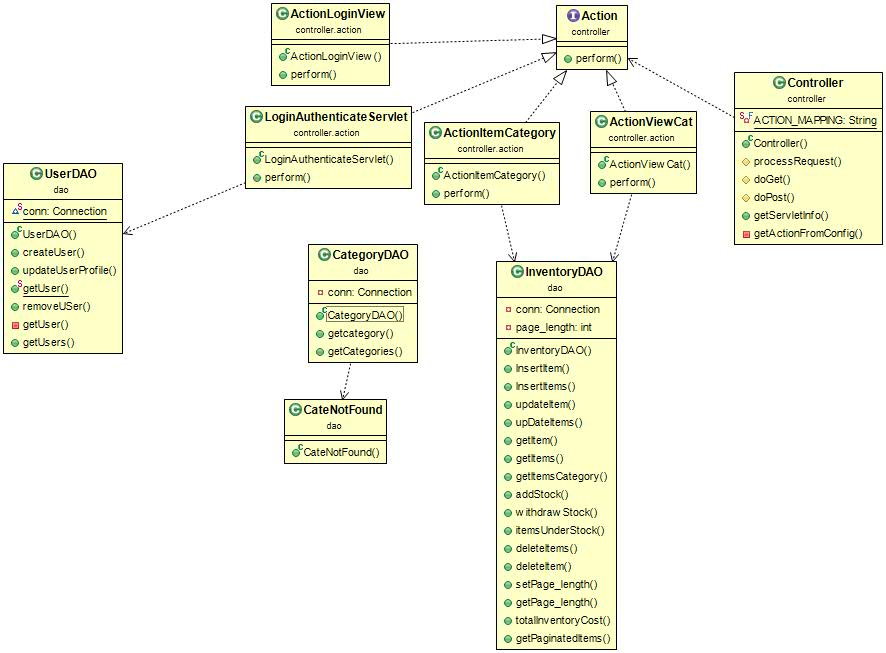
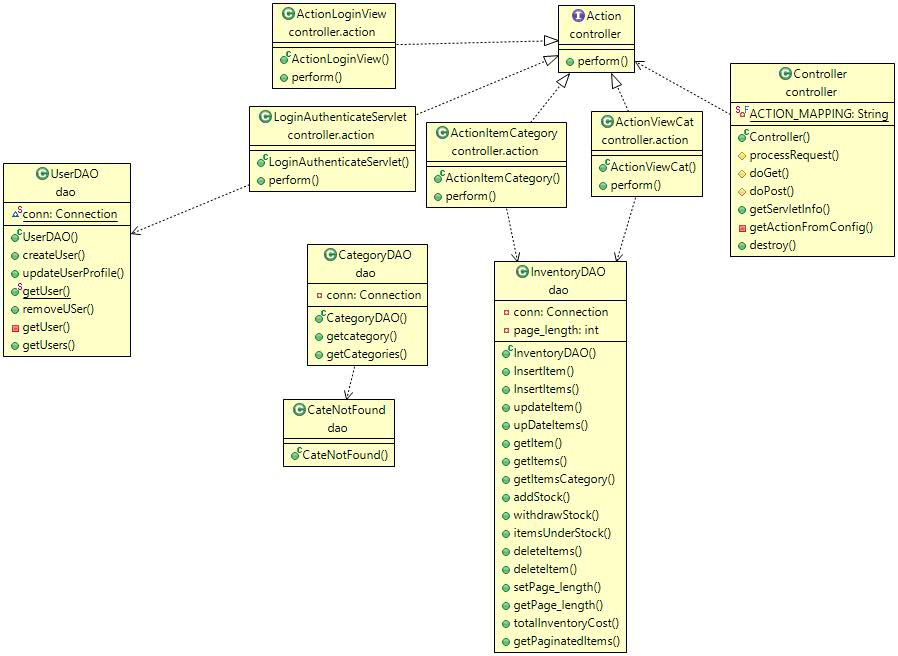
a

diff --git a/src/controller/Controller.java b/src/controller/Controller.java
@@ -14,77 +14,79 @@ import javax.servlet.http.HttpSession;
 
 public class Controller extends HttpServlet {
 
-    protected void processRequest(HttpServletRequest request, HttpServletResponse response)
-            throws ServletException, IOException {
+	protected void processRequest(HttpServletRequest request, HttpServletResponse response)
+			throws ServletException, IOException {
 
-        
-        String theAction = request.getParameter("action");
-        //PrintWriter out = response.getWriter();
-        //out.println( this.getServletContext().getRealPath(".") );
-        
-        HttpSession session=request.getSession();
+
+		String theAction = request.getParameter("action");
+		//PrintWriter out = response.getWriter();
+		//out.println( this.getServletContext().getRealPath(".") );
+
+		HttpSession session=request.getSession();
 		String uname=(String) session.getAttribute("username");
 		System.out.println(theAction);
 		System.out.println(uname);
 		if(uname!=null) {
 			//theAction="viewlogin";
 			if ( theAction == null)
-				theAction="viewcat";
-			
+				theAction="viewcat";			
 		}
-    	else {
-    		System.out.println("else");
-    		if(!theAction.equals("authlogin")) {
-    			System.out.println("elseif");
-    			theAction="viewlogin";
-    		}
-    		
-    	}
-        Action action = getActionFromConfig( theAction );
-        String view = action.perform(request, response);
-         
-        RequestDispatcher rd = request.getRequestDispatcher(view);
-        rd.forward(request, response);    
-        
-    } 
-    
-    @Override
-    protected void doGet(HttpServletRequest request, HttpServletResponse response)
-            throws ServletException, IOException {
-    	System.out.println("called");
-    	
-        processRequest(request, response);
-    }
+		else {
+			System.out.println("else");
+			if(!theAction.equals("authlogin")) {
+				System.out.println("elseif");
+				theAction="viewlogin";
+			}
+		}
+		Action action = getActionFromConfig( theAction );
+		String view = action.perform(request, response);
 
-    @Override
-    protected void doPost(HttpServletRequest request, HttpServletResponse response)
-            throws ServletException, IOException {
-        processRequest(request, response);
-    }
+		RequestDispatcher rd = request.getRequestDispatcher(view);
+		rd.forward(request, response);    
+		
+	} 
 
-    @Override
-    public String getServletInfo() {
-        return "Short description";
-    }
-    private Action getActionFromConfig( String theAction ) 
-            throws IOException {
-        Properties map = new Properties();
-        map.load( this.getClass().getClassLoader().getResourceAsStream( ACTION_MAPPING ));
-      
-        String action_class = map.getProperty(theAction.toLowerCase() );   
-        System.out.println(action_class);
-        Action action = null;
-        try {
-        	
-            action = (Action) Class.forName( action_class ).newInstance();
-   
-        }
-        catch(Exception e) {
-            e.printStackTrace();
-        }
-        return action;
-    }
+	@Override
+	protected void doGet(HttpServletRequest request, HttpServletResponse response)
+			throws ServletException, IOException {
+		System.out.println("called");
 
-    private final static String ACTION_MAPPING = "controller/ActionMapping.properties"; 
+		processRequest(request, response);
+	}
+
+	@Override
+	protected void doPost(HttpServletRequest request, HttpServletResponse response)
+			throws ServletException, IOException {
+		processRequest(request, response);
+	}
+
+	@Override
+	public String getServletInfo() {
+		return "Short description";
+	}
+	private Action getActionFromConfig( String theAction ) 
+			throws IOException {
+		Properties map = new Properties();
+		map.load( this.getClass().getClassLoader().getResourceAsStream( ACTION_MAPPING ));
+
+		String action_class = map.getProperty(theAction.toLowerCase() );   
+		System.out.println(action_class);
+		Action action = null;
+		try {
+
+			action = (Action) Class.forName( action_class ).newInstance();
+
+		}
+		catch(Exception e) {
+			e.printStackTrace();
+		}
+		return action;
+	}
+	@Override
+	public void destroy() {
+		// TODO Auto-generated method stub
+		super.destroy();
+	}
+	private final static String ACTION_MAPPING = "controller/ActionMapping.properties"; 
 
 }

diff --git a/src/controller/action/ActionInsert.java b/src/controller/action/ActionInsert.java
@@ -25,13 +25,13 @@ public class ActionInsert implements Action
 	@Override
 	public String perform(HttpServletRequest request, HttpServletResponse response) {
 		String isbn = request.getParameter("itmCode");
-		
+
 		InventoryDAO items = null;
 		cartdao = null;
 		CartItemDAO cartitemdao;
 		CartItem[] cia=new CartItem[0];
 		Cart c;
-		//ArrayList<CartItem> cial=new ArrayList<CartItem>();
+		
 		HttpSession session=request.getSession();
 		try {
 			cartitemdao=new CartItemDAO();
@@ -39,22 +39,18 @@ public class ActionInsert implements Action
 			items = new InventoryDAO();
 			item=items.getItem(Integer.parseInt(isbn));
 			c=(Cart)session.getAttribute("cart");
-			//cartdao.addCartItem(/*cartitemdao.getCartItem(item.getCode())*/);
+			System.out.println(c);
 			cartitemdao.addCartItem(new CartItem(cartitemdao.getLastShoppingItems()+1, Integer.parseInt(isbn),c.getCart()));
 			//items.InsertItem(item);
 			cia=cartitemdao.getCartItems(c.getCart());
 			session.setAttribute("cartitems",cia);
 		} catch (DAOException e3) {
-			// TODO Auto-generated catch block
 			e3.printStackTrace();
 		}catch (NumberFormatException | ItemNotFound e1) {
-			// TODO Auto-generated catch block
 			e1.printStackTrace();
 		} catch (ItemExists e) {
-			// TODO Auto-generated catch block
 			e.printStackTrace();
 		}		
-		//request.setAttribute("items", tmpitem);
 		return "cart_view.jsp";        
 	}
 }

diff --git a/src/dao/CartItemDAO.java b/src/dao/CartItemDAO.java
@@ -40,6 +40,7 @@ public class CartItemDAO {
 			int n;
 			qry= "INSERT INTO cart_item(cart_item_id,inventory_item_id,Quantity,cart_id) VALUES("
 					+crtItm.getCartItemCode()+ ","+crtItm.getInventoryItemCode()+","+crtItm.getQuantity()+","+crtItm.getCart()+");";
+			System.out.println(qry);
 			n = stmt.executeUpdate(qry);
 		}
 		catch(SQLException e1) {
@@ -55,28 +56,13 @@ public class CartItemDAO {
 		ArrayList<Integer> titmindex=new ArrayList<Integer>();
 		int tmp; 
 		try {
-
 			Statement stmt=conn.createStatement();
 			ResultSet rs=stmt.executeQuery(qry);
-			int i=0;
-			if(!rs.next()) {
-
-				return 0;
-			}else {
-				while (rs.next()) {
-					titmindex.add(rs.getInt(1));
-				}
-				itmindex=titmindex.toArray(itmindex);
-				Arrays.sort(itmindex);
-				System.out.println(itmindex.length);
-				 tmp=itmindex[itmindex.length];
-				
-			}
 		}catch(SQLException e) {
 			throw new DAOException(e.getMessage());
 		}
 		items=im.toArray(items);
-		return tmp;
+		return items.length+1;
 	}
 	/*public void InsertItems(InventoryItem[] items)
 			throws ItemExists, DAOException {		//should commit only if all items are successfully inserted otherwise should rollback

diff --git a/src/dao/CartDAO.java b/src/dao/CartDAO.java
@@ -176,22 +176,11 @@ public class CartDAO {
 		try {	
 			Statement stmt=conn.createStatement();
 			ResultSet rs=stmt.executeQuery(qry);
-			int i=0;
-			if(!rs.next()) {
-				return 0;	
-			}else {
-				while (rs.next()) {
-					titmindex.add(rs.getInt(1));
-				}
-				itmindex=titmindex.toArray(itmindex);
-				Arrays.sort(itmindex);
-				tmp=itmindex[itmindex.length-1];
-				System.out.println(tmp);			}
 		}catch(SQLException e) {
 			throw new DAOException(e.getMessage());
 		}
 		items=im.toArray(items);
-		return tmp;
+		return items.length+1;
 	}
 	/*public InventoryItem[] getItemsCategory(int cate_id) throws DAOException {
 		String qry="select * from inventory_item where cate_id="+cate_id+";";

diff --git a/src/controller/action/ActionNewItem.java b/src/controller/action/ActionNewItem.java
@@ -13,7 +13,7 @@ public class ActionNewItem  implements Action {
             HttpServletResponse response) {
     	//System.out.
             request.setAttribute("cartitem", null);
-            request.setAttribute("update_action", "insert");     
+          //  request.setAttribute("update_action", "insert");     
             System.out.println("hiii");
             return "cartpro.jsp";
     }

diff --git a/src/controller/action/LoginAuthenticateServlet.java b/src/controller/action/LoginAuthenticateServlet.java
@@ -57,8 +57,10 @@ public class LoginAuthenticateServlet implements Action{
 				out.write("null pointer");
 			}
 			catch(UserNotFound e) {
+				
 				out.write("user name or password is incorrect");
-				page="LOGIN.jsp";
+				return "LOGIN.jsp";
+				
 			} catch(ClassNotFoundException|DAOException e) {
 				// TODO Auto-generated catch block
 				out.write("Connection problem");
